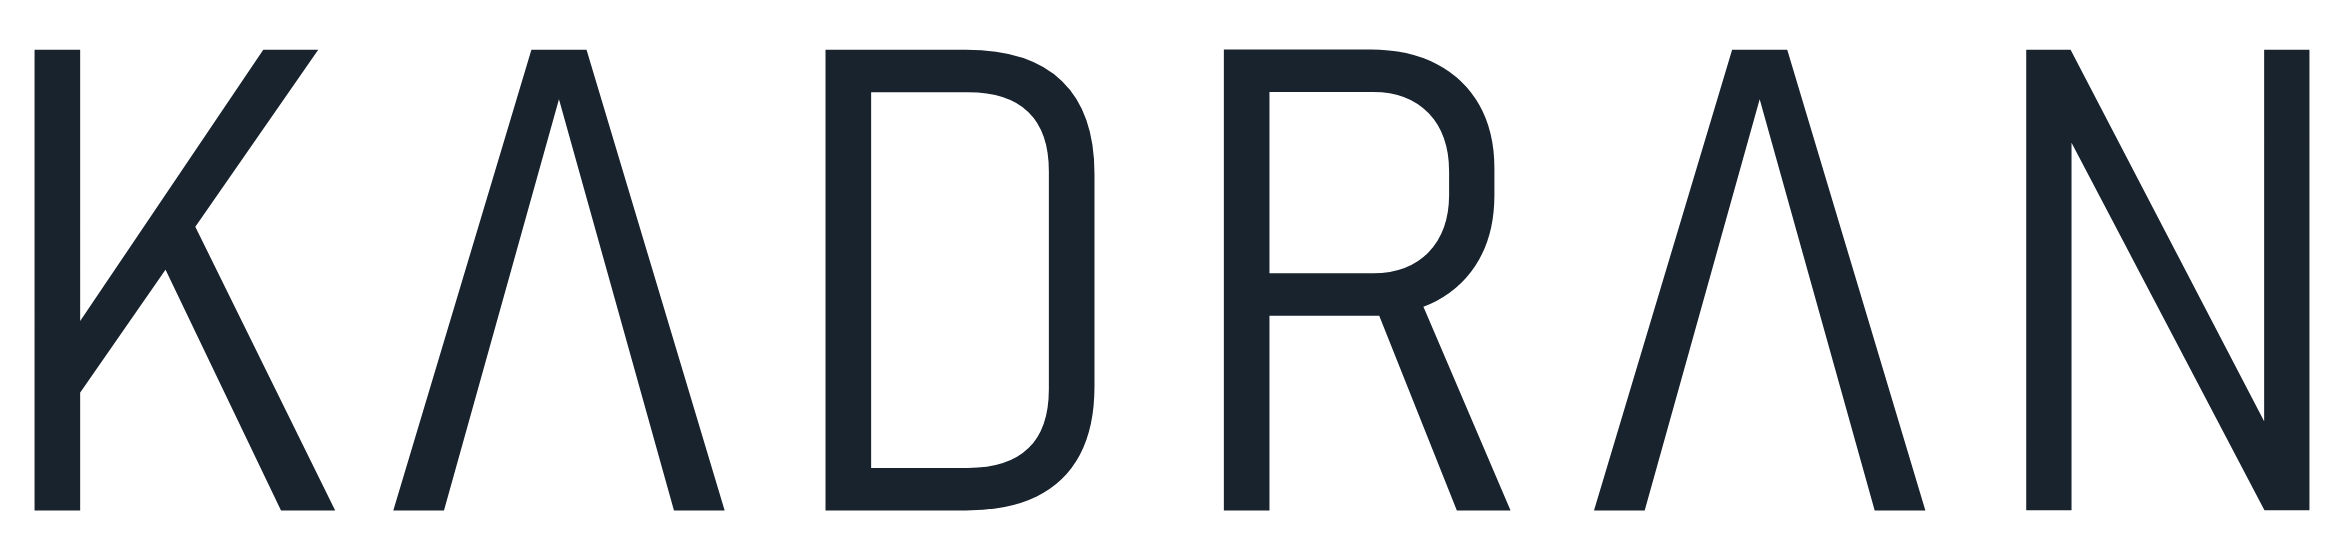
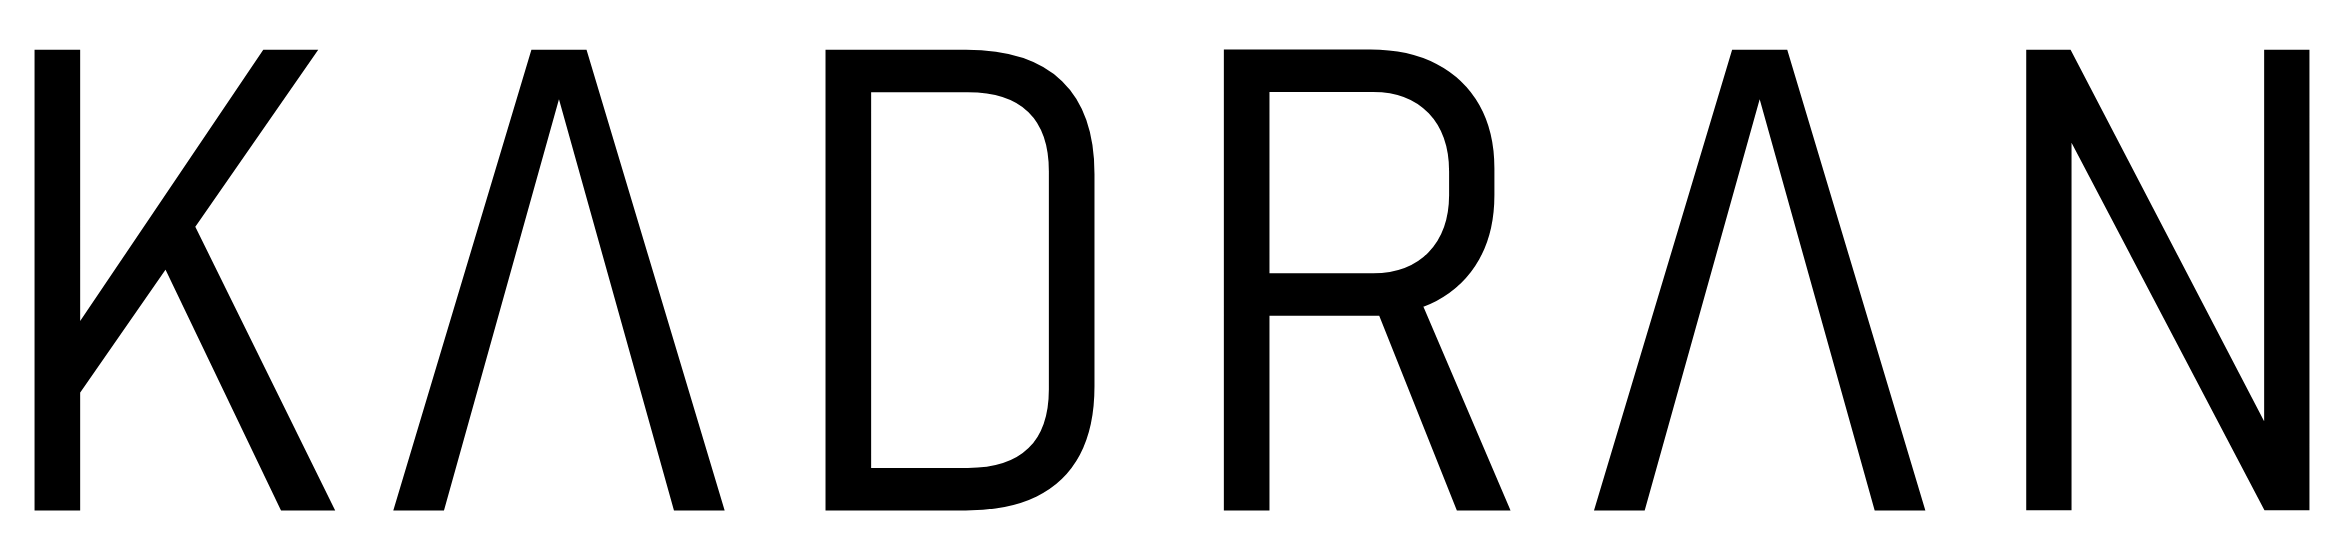
fix(desktop): keep wordmark visible across appearance settings

Changed region(s): [[0.4983, 0.0911, 0.9966, 0.9107], [0.0, 0.0911, 0.3114, 0.9107], [0.3426, 0.0911, 0.4672, 0.9107]]

diff --git a/desktop/src/main/smoke.ts b/desktop/src/main/smoke.ts
@@ -153,6 +153,34 @@ async function checkWordmark(win: BrowserWindow): Promise<string> {
   return mark.color;
 }
 
+async function checkBrandContrast(win: BrowserWindow): Promise<void> {
+  const snapshot = await evaluate<{ tone: string | undefined; tint: string; accent: string }>(win,
+    `({ tone: document.documentElement.dataset.tone, tint: document.documentElement.style.getPropertyValue('--tint'), accent: document.documentElement.style.getPropertyValue('--acc') })`);
+  try {
+    for (const tone of ["dark", "light"]) {
+      await evaluate(win, `document.documentElement.dataset.tone = '${tone}'; document.documentElement.style.setProperty('--tint', '0')`);
+      for (const accent of ["125, 211, 252", "255, 176, 32", "126, 224, 138", "236, 235, 230"]) {
+        await evaluate(win, `document.documentElement.style.setProperty('--acc', '${accent}')`);
+        const ink = await checkWordmark(win);
+        expect(ink === (tone === "light" ? "rgb(0, 0, 0)" : "rgb(237, 241, 245)"), `${tone} wordmark changed with accent: ${ink}`);
+        const background = await evaluate<string>(win, "getComputedStyle(document.querySelector('.titlebar')).backgroundColor");
+        const rgba = background.match(/[\d.]+/g)?.map(Number);
+        expect(rgba?.length === 4 && rgba[3]! >= 0.7 && rgba[3]! < 1, `titlebar lost its translucent contrast guard: ${background}`);
+        const luminance = (rgb: number[]): number => rgb.map((v) => v / 255).map((v) => v <= 0.04045 ? v / 12.92 : ((v + 0.055) / 1.055) ** 2.4).reduce((sum, v, i) => sum + v * [0.2126, 0.7152, 0.0722][i]!, 0);
+        const fg = luminance(tone === "light" ? [0, 0, 0] : [237, 241, 245]);
+        for (const wallpaper of [0, 255]) {
+          const bg = luminance(rgba!.slice(0, 3).map((v) => v * rgba![3]! + wallpaper * (1 - rgba![3]!)));
+          const contrast = (Math.max(fg, bg) + 0.05) / (Math.min(fg, bg) + 0.05);
+          expect(contrast >= 4.5, `${tone} wordmark contrast at zero tint is only ${contrast.toFixed(2)}:1`);
+        }
+      }
+    }
+    console.log("wordmark contrast passed: both tones, four accents, zero tint, black/white backdrops");
+  } finally {
+    await evaluate(win, `(() => { const root = document.documentElement; const saved = ${JSON.stringify(snapshot)}; if (saved.tone) root.dataset.tone = saved.tone; else delete root.dataset.tone; for (const [name, value] of [['--tint', saved.tint], ['--acc', saved.accent]]) { if (value) root.style.setProperty(name, value); else root.style.removeProperty(name); } })()`);
+  }
+}
+
 async function managementJourney(win: BrowserWindow): Promise<void> {
   await click(win, '[data-testid="nav-apps"]');
   await waitFor(win, q('[data-testid="app-card-hello"]'), "application cards");
@@ -413,7 +441,7 @@ export async function runSmokeTest(win: BrowserWindow): Promise<void> {
       problems.push(`bridge surface differs: ${JSON.stringify(surface)} != ${JSON.stringify(EXPECTED_BRIDGE)}`);
     }
     if (!(await waitForRoot(win))) problems.push("React root did not render");
-    else await checkWordmark(win);
+    else await checkBrandContrast(win);
 
     // Renderer Node'a ERİŞEMEMELİ; erişebiliyorsa ayrıcalık ayrımı
     // istemci tarafından delinmiş olur.

diff --git a/desktop/src/renderer/styles/management.css b/desktop/src/renderer/styles/management.css
@@ -1,5 +1,7 @@
 /* Glass remains translucent in Clear, Acrylic and Vibrancy. Solid is an explicit user preference. */
-.brand-logo { display: block; width: 112px; height: 24px; flex: none; color: var(--fg); }
+/* The titlebar keeps local contrast even when Clear's window tint is zero. */
+.titlebar { background: rgba(var(--tone), 0.7); backdrop-filter: blur(12px); }
+.brand-logo { display: block; width: 112px; height: 24px; flex: none; color: var(--brand-ink); }
 .rail, .stage, .log-output, .operation-dialog { scrollbar-width: thin; scrollbar-color: rgba(255, 255, 255, 0.2) transparent; }
 :root[data-tone="light"] .rail, :root[data-tone="light"] .stage, :root[data-tone="light"] .log-output, :root[data-tone="light"] .operation-dialog { scrollbar-color: rgba(17, 20, 26, 0.2) transparent; }
 ::-webkit-scrollbar { width: 7px; height: 7px; }

diff --git a/desktop/src/renderer/styles/tokens.css b/desktop/src/renderer/styles/tokens.css
@@ -10,6 +10,7 @@
   --tone: 14, 16, 22;
   --glass: 255, 255, 255;
   --fg: #f2f4f8;
+  --brand-ink: #edf1f5;
   --fg-dim: rgba(242, 244, 248, 0.62);
   --fg-faint: rgba(242, 244, 248, 0.4);
   --line: rgba(255, 255, 255, 0.08);
@@ -29,6 +30,7 @@
 :root[data-tone="light"] {
   --tone: 246, 247, 250;
   --fg: #11141a;
+  --brand-ink: #000000;
   --fg-dim: rgba(17, 20, 26, 0.62);
   --fg-faint: rgba(17, 20, 26, 0.42);
   --line: rgba(17, 20, 26, 0.1);

diff --git a/docs/branding/select-wordmark.py b/docs/branding/select-wordmark.py
@@ -10,7 +10,7 @@ width, height = art[3:5]
 viewbox = f"0 0 {width + 12:g} {height + 12:g}"
 for folder in [ROOT / "docs/assets", ROOT / "desktop/public"]:
     folder.mkdir(parents=True, exist_ok=True)
-    for suffix, color in [("", "#EDF1F5"), ("-dark", "#18232E")]:
+    for suffix, color in [("", "#EDF1F5"), ("-dark", "#000000")]:
         shapes = helpers["group"](art, 6, 6, color=color)
         svg = f'<svg xmlns="http://www.w3.org/2000/svg" width="2344" height="560" viewBox="{viewbox}" role="img" aria-labelledby="title"><title id="title">KΛDRΛN</title>{shapes}</svg>\n'
         (folder / f"kadran-wordmark{suffix}.svg").write_text(svg, encoding="utf-8")

diff --git a/docs/branding/selected-wordmark.md b/docs/branding/selected-wordmark.md
@@ -22,6 +22,22 @@ PNG'ler 2344 × 560 RGBA'dır. İki renk sürümünün alfa geometrisi aynıdır
 alfa aralığı 0–255, dört köşe tam saydamdır. SVG'lerde arka plan yoktur.
 README `picture` öğesiyle sayfa temasına uygun SVG'yi seçer.
 
+Tema görünürlüğü: açık temada logo tam siyah (`#000000`), koyu temada
+açık renk (`#EDF1F5`) kullanır. Logo rengi vurgu, parlama ve arayüz fontu
+ayarlarından bağımsızdır. Başlığın %70 opak cam zemini, Clear modunda pencere
+renk tonu sıfırken de duvar kâğıdı üzerinde kontrastı korur; tam opak bir
+zemin eklenmez. Ayrı PNG/SVG varlıkları arka plansız kalır.
+
+Siyah SVG, GitHub README için de
+[`7579a5b`](https://github.com/erkanrzgc/kadran/commit/7579a5b192aa139d4a709b9ee75aec7852fc958d)
+ile güncellendi. Gerçek Electron CSS ölçümlerinden hesaplanan en kötü
+kontrast koyu temada beyaz masaüstü üzerinde 6,30:1, açık temada siyah
+masaüstü üzerinde 9,35:1. Smoke iki ton ve dört mevcut vurgu rengini
+`tint=0` ile kontrol eder; test değişiklikleri kaydedilmez ve sonunda
+geri alınır. Bu oranlar CSS bileşimi hesabıdır; harici duvar kâğıdı
+ekran görüntüsü ölçümü değildir. Clear yolculuğu gerçek renderer ve
+saydam piksel kontrolleriyle ayrıca geçti.
+
 GitHub `main` dalında yalnız README başlığı ve iki SVG yayımlandı:
 [logo değişikliği](https://github.com/erkanrzgc/kadran/compare/138b7ccccca66ce1250c349f88664c4818581d93...512884d284a4989c6f045090d23db26401da98f5).
 Genel ürün kodu veya başka çalışma ağacı değişikliği GitHub'a aktarılmadı.
